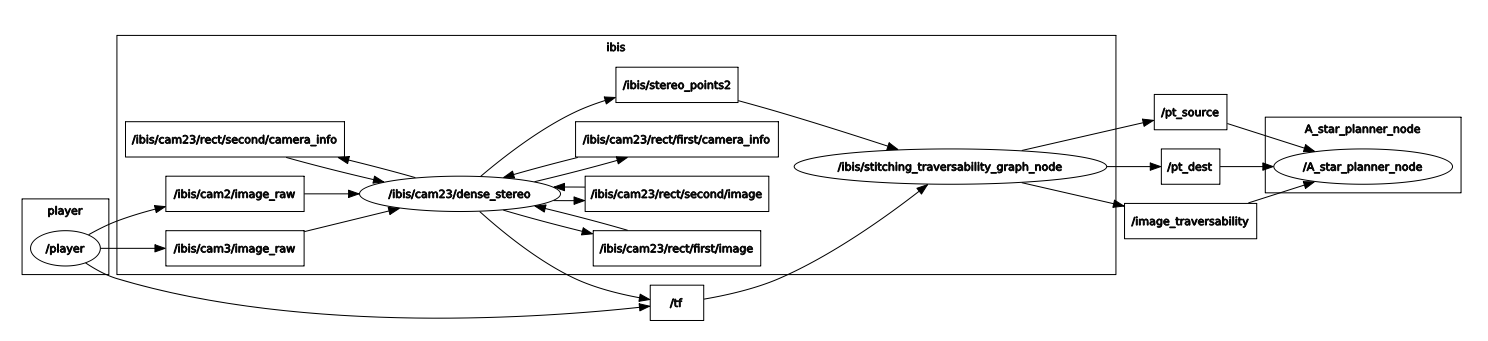
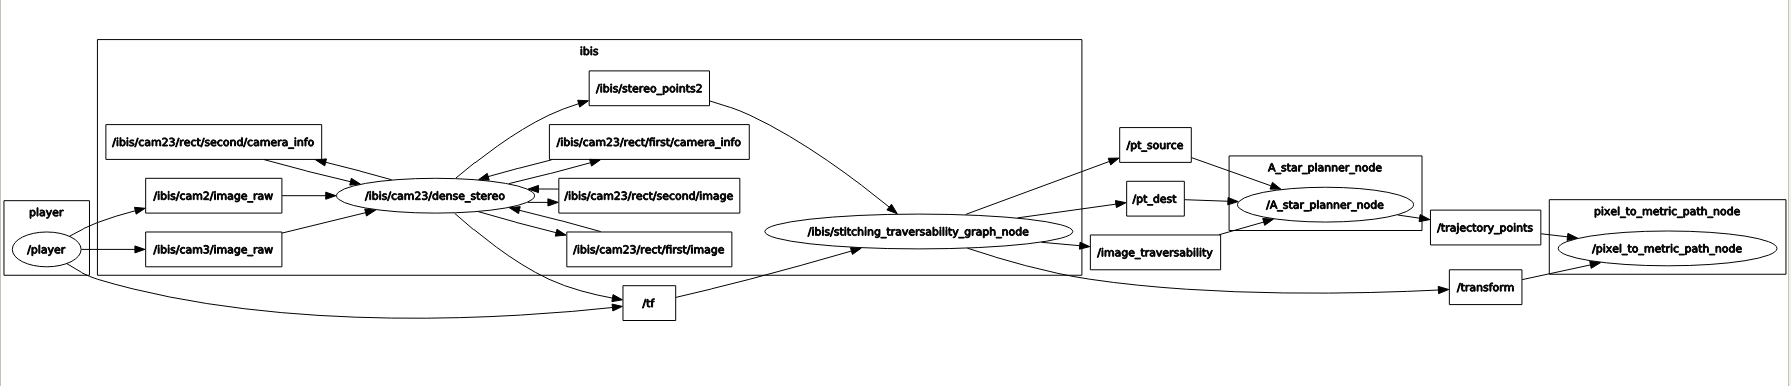
adding node to transform pixel_to_metric

diff --git a/src/library/stitching_traversability_graph.cpp b/src/library/stitching_traversability_graph.cpp
@@ -172,6 +172,7 @@ void TraversabilityGraphStitcher::pointCloudCallback(const sensor_msgs::PointClo
         time2 = ros::Time::now();
         duration = time2.toSec() - time1.toSec();
         if(verbose_) ROS_INFO_STREAM(duration<<"sec                       ");
+        //if (verbose_) cv::imshow("elevation_tmp",elevation_tmp);
 
         /// Initialisation of global image with the first image
         if(first)
@@ -271,7 +272,7 @@ void TraversabilityGraphStitcher::pointCloudCallback(const sensor_msgs::PointClo
             cv::Mat gradiant = cv::Mat::zeros(modifiedImage.rows, modifiedImage.cols, CV_32F);
             cv::magnitude(grad_x,grad_y,gradiant);
             cv::normalize(gradiant, gradiant,0x00, 0xFF, cv::NORM_MINMAX, CV_8U);
-            int amplify_magnitude = 10;// amplfy gradiant for visualisation
+            int amplify_magnitude = 20;// amplfy gradiant for visualisation
             for(unsigned int i=0;i<grad_x.rows;i++)
             {
                 for(unsigned int j=0;j<grad_y.cols;j++)
@@ -342,52 +343,53 @@ void TraversabilityGraphStitcher::pointCloudCallback(const sensor_msgs::PointClo
             duration = time2.toSec() - time1.toSec();
             if (verbose_) ROS_INFO_STREAM(duration<<"sec            ");
             //cv::imshow("traversability",traversability_full_image);
-        }
 
-        //--------------------- Publishing ---------------------------------------------------//
-        if (verbose_) ROS_INFO("Publishing ");
-        time1 = ros::Time::now();
+            //--------------------- Publishing ---------------------------------------------------//
+            if (verbose_) ROS_INFO("Publishing ");
+            time1 = ros::Time::now();
 
-        /// publishing points
-        geometry_msgs::Point source; // first point
-        for (int i=0; i < traversability_full_image.rows*traversability_full_image.cols;i++)
-        {
-            if(traversability_full_image.at<uchar>(i/traversability_full_image.cols,i%traversability_full_image.cols) > 100)
+            /// publishing points
+            geometry_msgs::Point source; // first point
+            for (int i=0; i < traversability_full_image.rows*traversability_full_image.cols;i++)
             {
-                source.x = i%elevation_full_image.cols;
-                source.y = i/elevation_full_image.cols;
-                break;
+                if(traversability_full_image.at<uchar>(i/traversability_full_image.cols,i%traversability_full_image.cols) > 100)
+                {
+                    source.x = i%elevation_full_image.cols;
+                    source.y = i/elevation_full_image.cols;
+                    break;
+                }
             }
-        }
-        source_pub_.publish(source);
-        geometry_msgs::Point dest;   // last point
-        for (int i=0; i < traversability_full_image.rows*traversability_full_image.cols;i++)
-        {
-            if(traversability_full_image.at<uchar>(i/traversability_full_image.cols,i%traversability_full_image.cols) > 100)
+            source_pub_.publish(source);
+            geometry_msgs::Point dest;   // last point
+            for (int i=0; i < traversability_full_image.rows*traversability_full_image.cols;i++)
             {
-                dest.x = i%elevation_full_image.cols;
-                dest.y = i/elevation_full_image.cols;
+                if(traversability_full_image.at<uchar>(i/traversability_full_image.cols,i%traversability_full_image.cols) > 100)
+                {
+                    dest.x = i%elevation_full_image.cols;
+                    dest.y = i/elevation_full_image.cols;
+                }
             }
+            dest_pub_.publish(dest);
+
+            /// publishig info for metric transformation
+            std_msgs::Float32MultiArray msgTransform;
+            msgTransform.data.push_back(minX);
+            msgTransform.data.push_back(1.0 / resolution_); // here we need  m/pixel
+            msgTransform.data.push_back(minY);
+            msgTransform.data.push_back(1.0 / resolution_);
+            double minZ = -0.6;
+            msgTransform.data.push_back(minZ);
+            msgTransform.data.push_back(1.0 / zscale);
+            transform_pub_.publish(msgTransform);
+
+            /// publishing image_traversability
+            sensor_msgs::ImagePtr msgPublish;
+            msgPublish = cv_bridge::CvImage(std_msgs::Header(), "mono8", traversability_full_image).toImageMsg();
+            img_pub_.publish (msgPublish);
+
+            pub = false;
         }
-        dest_pub_.publish(dest);
 
-        /// publishig info for metric transformation
-        std_msgs::Float32MultiArray msgTransform;
-        msgTransform.data.push_back(minX);
-        msgTransform.data.push_back(1.0 / resolution_); // here we need  m/pixel
-        msgTransform.data.push_back(minY);
-        msgTransform.data.push_back(1.0 / resolution_);
-        double minZ = -0.6;
-        msgTransform.data.push_back(minZ);
-        msgTransform.data.push_back(1.0 / zscale);
-        transform_pub_.publish(msgTransform);
-
-        /// publishing image_traversability
-        sensor_msgs::ImagePtr msgPublish;
-        msgPublish = cv_bridge::CvImage(std_msgs::Header(), "mono8", traversability_full_image).toImageMsg();
-        img_pub_.publish (msgPublish);
-
-        pub = false;
     }
     else if (verbose_) ROS_INFO_STREAM("not enougth good points : "<<cloud->points.size()<<" points        ");
 

diff --git a/src/pixel_to_metric_path_node.cpp b/src/pixel_to_metric_path_node.cpp
@@ -1,0 +1,76 @@
+/*-------------------------------------------------------------
+ *
+ *  This node use the /transform topic to change a path in pixels to its position in meters
+ *
+ * ----------------------------------------------------------------*/
+#include <ros/ros.h>
+#include <std_msgs/Int32MultiArray.h>
+#include <std_msgs/Float32MultiArray.h>
+
+class Worker
+{
+private:
+    ros::NodeHandle nh; ///< Node Handle
+
+    ros::Subscriber sub_path_; ///< Subscriber to stating point
+    ros::Subscriber sub_transform_; ///< Subscriber to goal point
+
+    ros::Publisher pTraj; ///< Publisher trajectory
+    float minX;
+    float scaleX;
+    float minY;
+    float scaleY;
+
+public:
+    Worker(); ///< Constructeur du worker
+    void cbTransform(const std_msgs::Float32MultiArray &msg); ///< Callback tranform infos
+    void cbPath(const std_msgs::Int32MultiArray &msg); ///< Callback for  the path to transform
+};
+
+Worker::Worker():nh("~")
+{
+    // subscribers
+    sub_path_ = nh.subscribe("/trajectory_points",1,&Worker::cbPath,this);
+    sub_transform_ = nh.subscribe("/transform",1,&Worker::cbTransform,this);
+    // publishers
+    pTraj = nh.advertise<std_msgs::Int32MultiArray>("/trajectory_metric_points",1);
+    // variables
+    minX = 0;
+    scaleX=0;
+    minY = 0;
+    scaleY=0;
+}
+
+// Update variables
+void Worker::cbTransform(const std_msgs::Float32MultiArray &msg)
+{
+    minX = msg.data[0];
+    scaleX=msg.data[1];
+    minY = msg.data[2];
+    scaleY=msg.data[3];
+}
+
+// Transform the input path
+void Worker::cbPath(const std_msgs::Int32MultiArray &msg)
+{
+    std_msgs::Float32MultiArray traj_msg;
+    for(int i =0;i< msg.data.size(); i+=2)
+    {
+        float x = minX + scaleX*msg.data[i];
+        float y = minY + scaleY*msg.data[i+1];
+        traj_msg.data.push_back(x);
+        traj_msg.data.push_back(y);
+    }
+    pTraj.publish(traj_msg);
+}
+
+int main(int argc, char ** argv)
+{
+    // Initialisation of ROS node
+    ros::init(argc,argv,"pixel_to_metric_path");
+
+    // call worker class
+    Worker worker;
+
+    ros::spin();
+}

diff --git a/src/a_star_planner.cpp b/src/a_star_planner.cpp
@@ -1,8 +1,7 @@
 /*-------------------------------------------------------------
  *
- *  Ce code créer un noeud qui permet de calcul de trajectoire dans une carte d'occupation
- *  l'algorithme utilisé est un A* edité par boost
- *
+ *  This node create a maze: a grid_graph from the binary image of traversability
+ *  end compute a A* algorithm to find the path between the source and the goal *
  *
  * ----------------------------------------------------------------*/
 #include <ros/ros.h>
